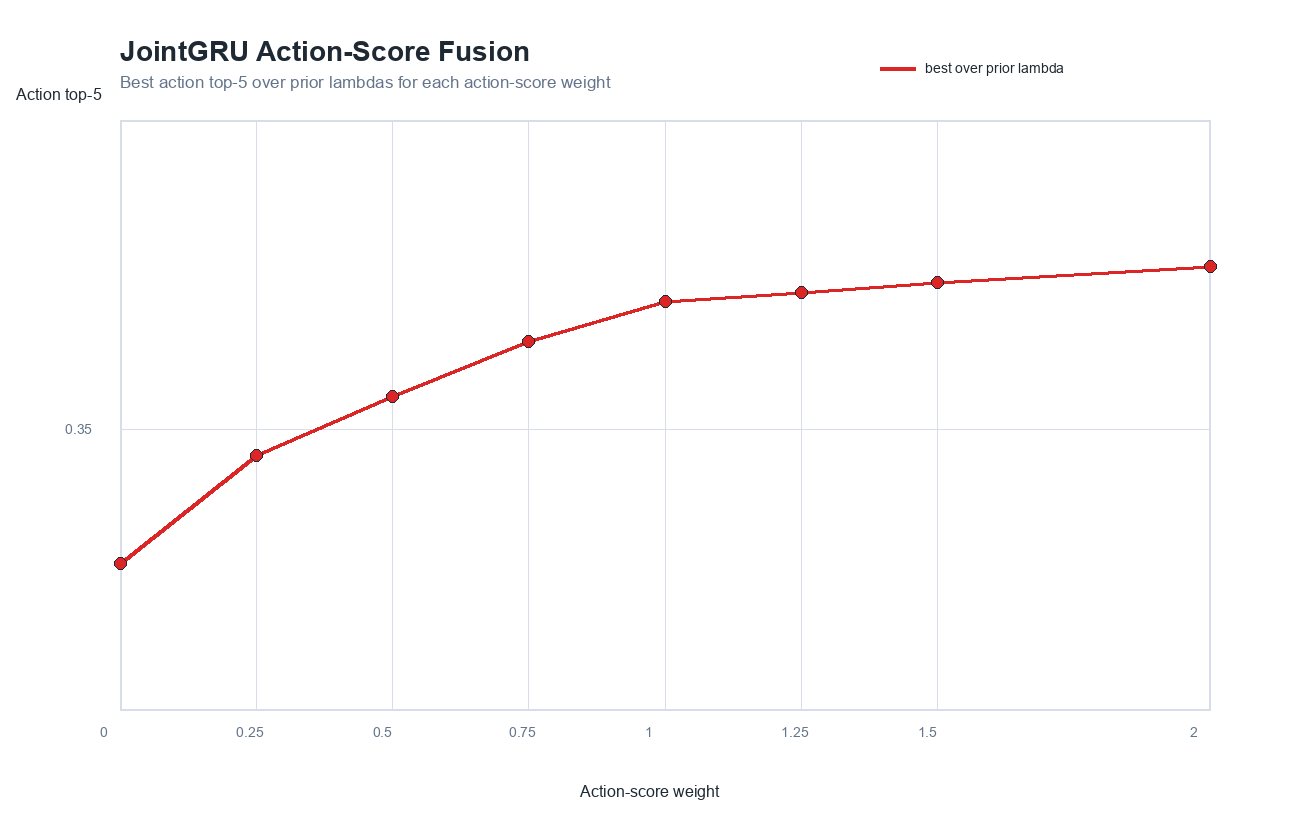
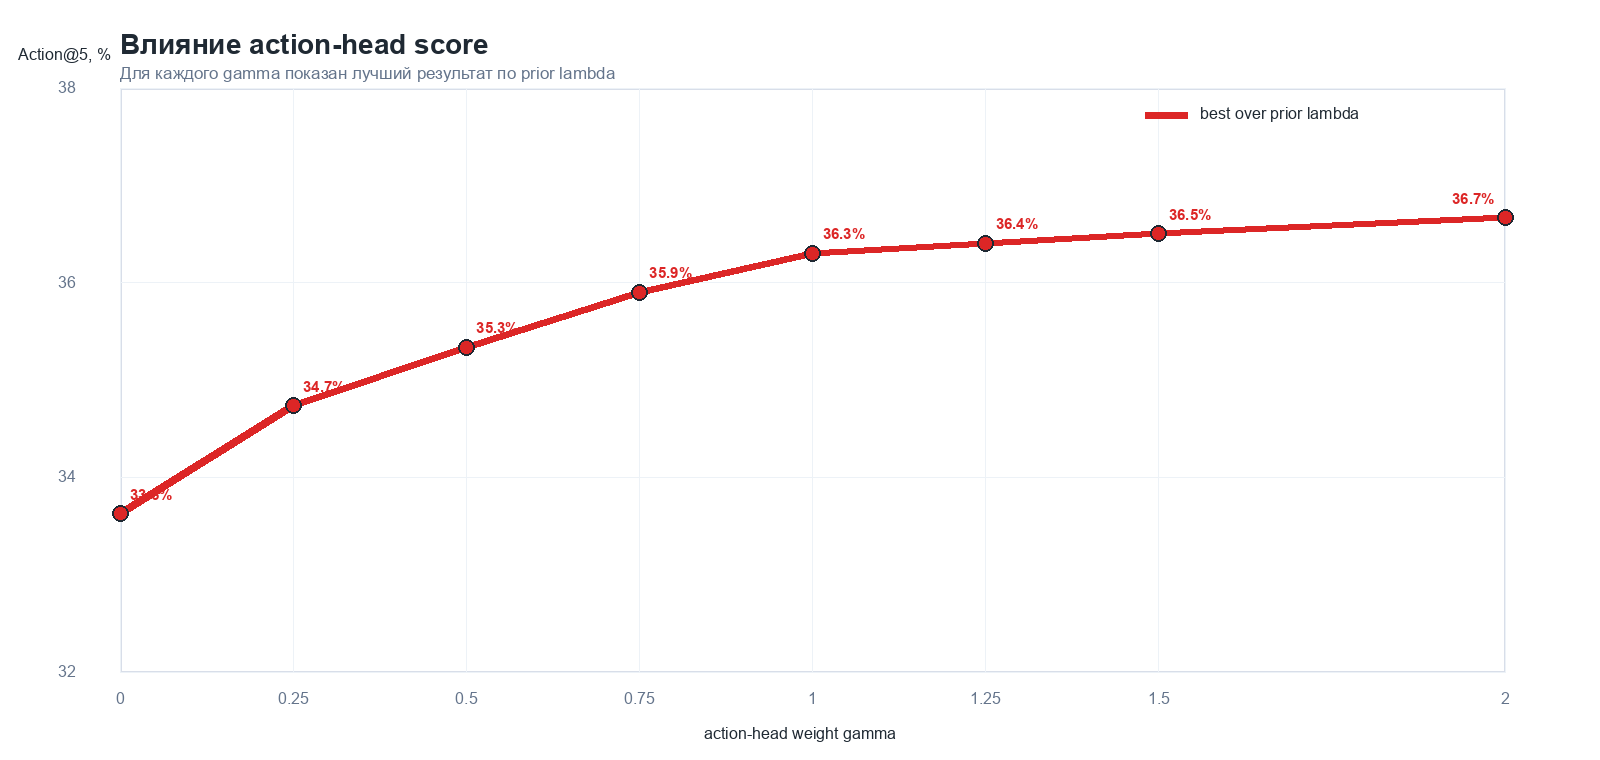
Improve ablation slides

diff --git a/video_event_prediction_presentation_ru.tex b/video_event_prediction_presentation_ru.tex
@@ -288,22 +288,26 @@
     \includegraphics[height=0.78\textheight,keepaspectratio]{quality_efficiency_tradeoff.png}
 \end{frame}
 
-\begin{frame}{Ablation: train prior}
+\begin{frame}{Ablation: статистический prior}
     \centering
-    \includegraphics[height=0.68\textheight,keepaspectratio]{prior_effect_ablation.png}
+    \includegraphics[width=0.9\textwidth,keepaspectratio]{prior_effect_ablation.png}
 
-    \vspace{0.1cm}
-    \small
-    Prior заметно помогает обычному GRU, но для JointGRU основную роль играет action head.
+    \scriptsize
+    \parbox{0.9\textwidth}{
+        Prior заметно помогает обычному GRU: Action@5 растет примерно с 29.2\% до 33.5\%.
+        Для JointGRU результат почти не меняется, потому что совместимость пары уже моделируется action head.
+    }
 \end{frame}
 
 \begin{frame}{Ablation: action-score fusion}
     \centering
-    \includegraphics[height=0.68\textheight,keepaspectratio]{action_score_weight_ablation.png}
+    \includegraphics[width=0.9\textwidth,keepaspectratio]{action_score_weight_ablation.png}
 
-    \vspace{0.1cm}
-    \small
-    Увеличение веса action head улучшает совместное предсказание до \( \gamma=2.0 \), но прирост после \( \gamma=1.0 \) небольшой.
+    \scriptsize
+    \parbox{0.9\textwidth}{
+        Увеличение веса action head дает основной прирост до \( \gamma \approx 1.0 \);
+        дальше качество растет медленнее, но лучший запуск получился при \( \gamma=2.0 \).
+    }
 \end{frame}
 
 \begin{frame}{Качественный пример: validation sample 10}